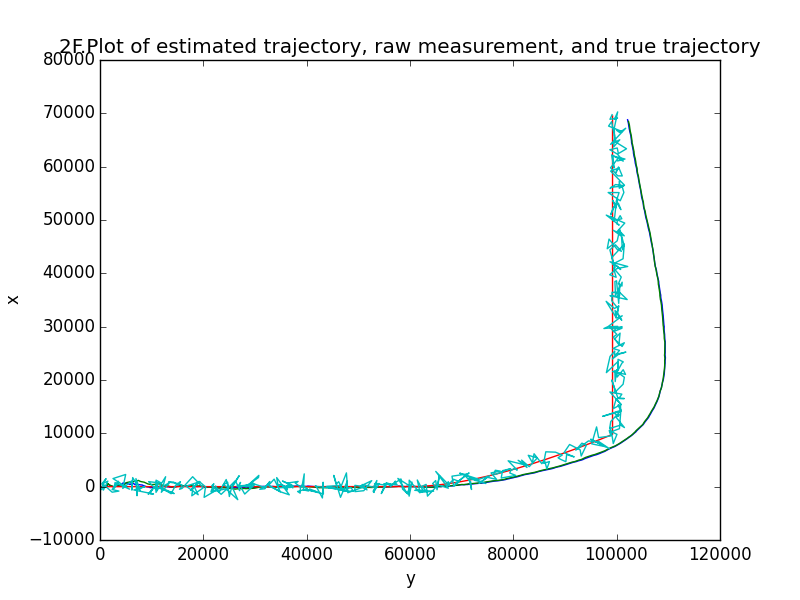
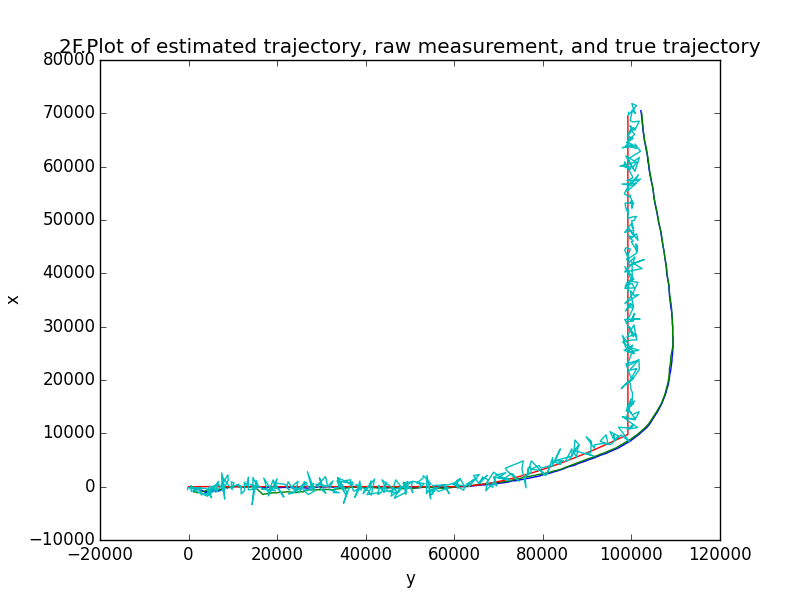
update 2F

diff --git a/kalman_filter.py b/kalman_filter.py
@@ -24,6 +24,7 @@ class KalmanFilterLinear:
     self.current_prob_estimate = (numpy.eye(size)-kalman_gain*self.H)*predicted_prob_estimate
 
 class KalmanFilterLinearRandom:
+  previous_measureent = numpy.asmatrix(numpy.zeros((2,1)))
   def __init__(self,_A, _B, _H, _x, _P, _Q, _R):
     self.A = _A                      # State transition matrix.
     self.B = _B                      # Control matrix.
@@ -38,8 +39,11 @@ class KalmanFilterLinearRandom:
     predicted_state_estimate = self.A * self.current_state_estimate
     predicted_prob_estimate = (self.A * self.current_prob_estimate) * self.A.T + self.B*self.Q*self.B.T
     innovation_covariance = self.H*predicted_prob_estimate*self.H.T + self.R
-
-    innovation = measurement_vector - self.H*predicted_state_estimate
+    if measurement_vector.shape != (2, 1) :
+        innovation = self.previous_measureent - self.H*predicted_state_estimate
+    else:
+        innovation = measurement_vector - self.H*predicted_state_estimate
+        self.previous_measureent = measurement_vector
     kalman_gain = predicted_prob_estimate * self.H.T * innovation_covariance.getI()
     self.current_state_estimate = predicted_state_estimate + kalman_gain * innovation
     size = self.current_prob_estimate.shape[0]

diff --git a/2F.py b/2F.py
@@ -62,7 +62,7 @@ for t in range(500):
     if (r < 0.5):
         kfl_random.Step(np.asmatrix(x_f_n[t, [0,2]]).T)
     else:
-        kfl_random.Step(np.asmatrix(x_f_n[max(0, t-1), [0,2]]).T)
+        kfl_random.Step(np.asmatrix(np.zeros((0,0))))
     if (t == 0):
         estimate_random = kfl_random.GetCurrentState()
     else:
